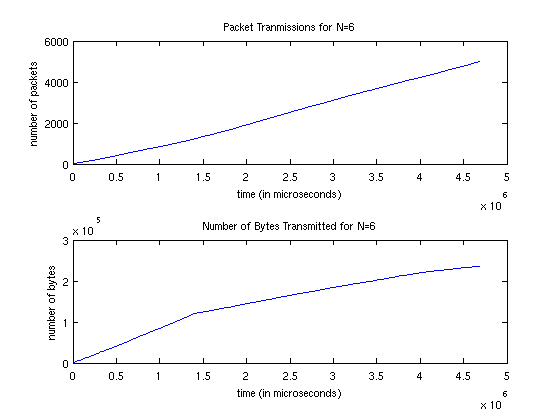
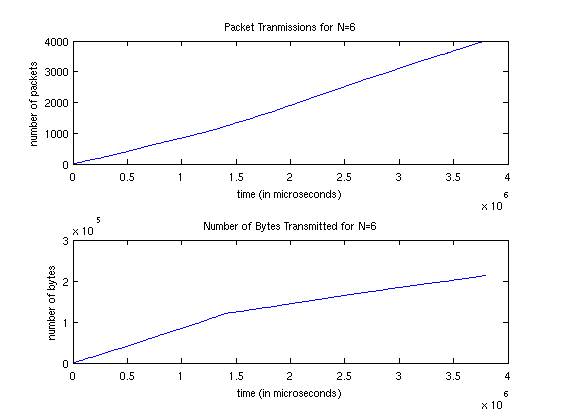
lab3 images

diff --git a/lab3/part3/matlabplot_p3.m b/lab3/part3/matlabplot_p3.m
@@ -5,10 +5,10 @@ clc;clear all;
 %%%%%%%%%%%%%%%%%%%%%%%%%%%%%%%%%%%%%%%%%%%%%%%%%%%%%%%%%%%%%%%%%%%
 close all;
 clearvars;
-size = 5000;
+size = 4000;
 
 %............. sink output1
-[packet_no_p, packetsize_p, arrival_time] = textread('output_sink1.txt', '%f %f %f');
+[packet_no_p, packetsize_p, arrival_time] = textread('output_sink3.txt', '%f %f %f');
 
 %plot number of packet transmissions on a time scale of 10 ms per data
 %point
@@ -20,14 +20,14 @@ subplot(2,1,1);
 time = arrival_time(1:size);
 packet = packet_no_p (1:size);
 plot(cumsum(time), packet);
-title('Packet Tranmissions for N=8');
+title('Packet Tranmissions for N=2');
 xlabel('time (in microseconds)');
 ylabel('number of packets');
 %plot number of transmitted bytes on a time scale of 10 ms per data point
 subplot(2,1,2);
 packet2 = packetsize_p(1:size);
 plot(cumsum(time), cumsum(packet2));
-title('Number of Bytes Transmitted for N=8');
+title('Number of Bytes Transmitted for N=2');
 ylabel('number of bytes');
 xlabel('time (in microseconds)');
 
